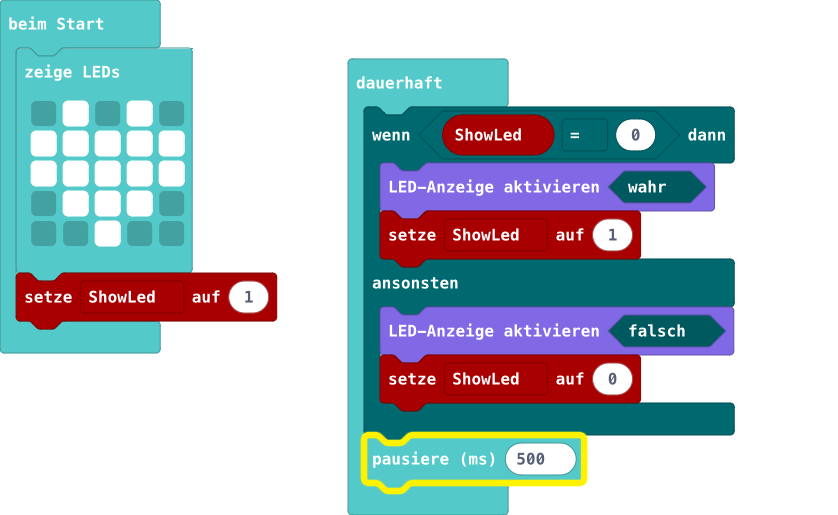
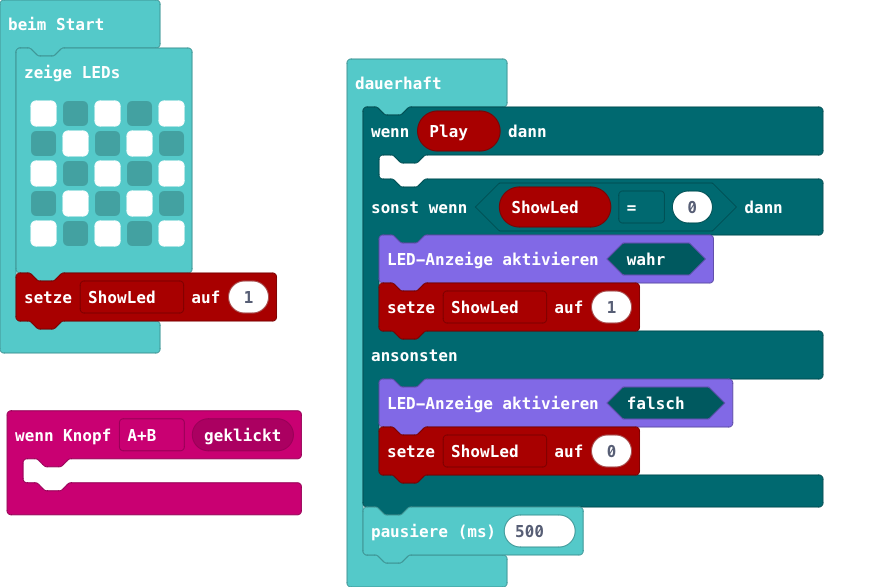
Aktualisiere main.blocks, main.ts

diff --git a/main.ts b/main.ts
@@ -1,13 +1,19 @@
+input.onButtonEvent(Button.AB, input.buttonEventClick(), function () {
+	
+})
 basic.showLeds(`
+    # . # . #
     . # . # .
-    # # # # #
-    # # # # #
-    . # # # .
-    . . # . .
+    # . # . #
+    . # . # .
+    # . # . #
     `)
 let ShowLed = 1
 basic.forever(function () {
-    if (ShowLed == 0) {
+    let Play = 0
+    if (Play) {
+    	
+    } else if (ShowLed == 0) {
         led.enable(true)
         ShowLed = 1
     } else {
